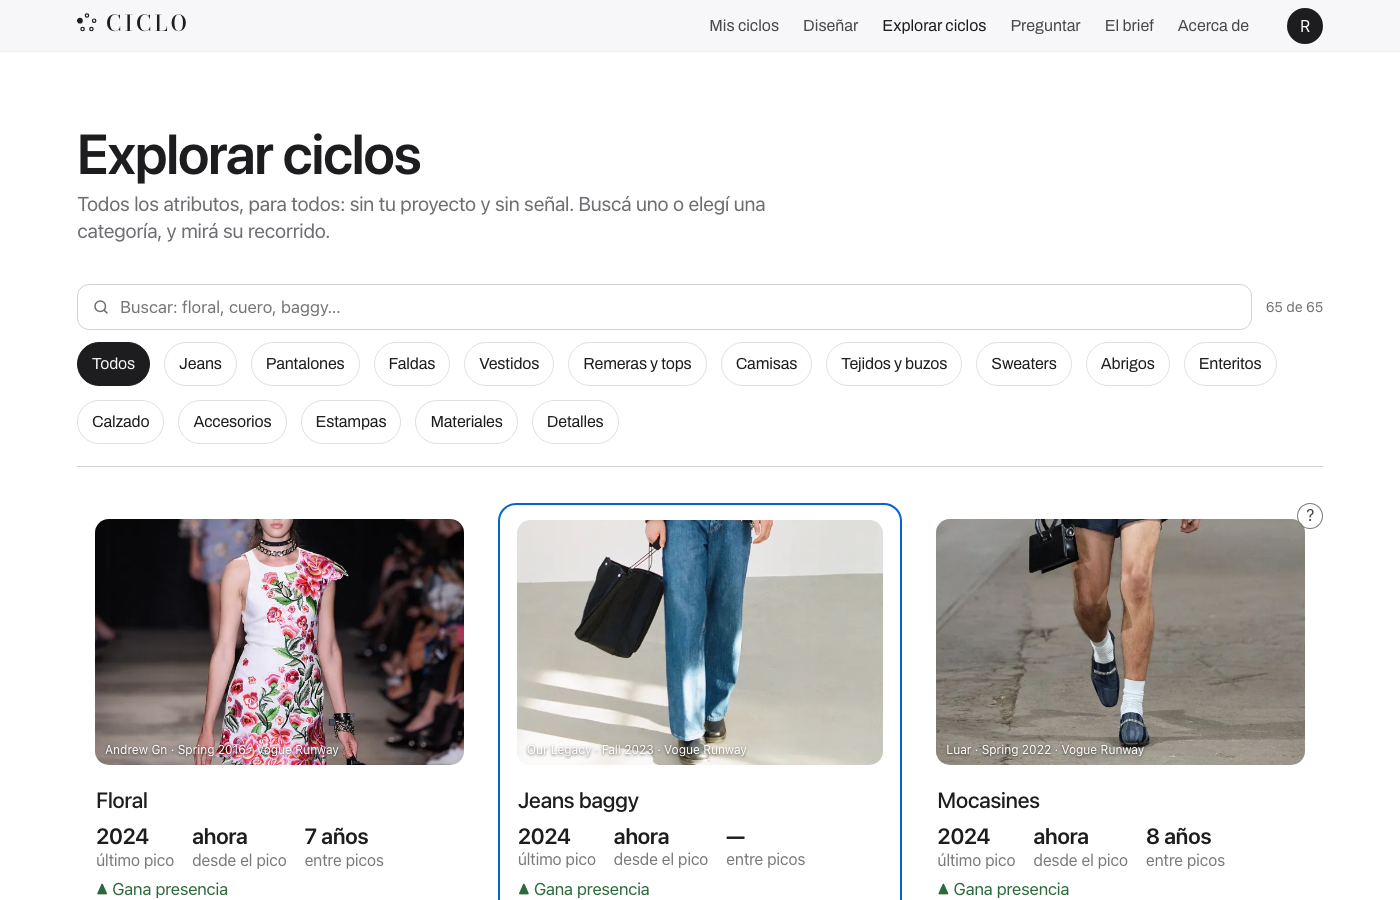
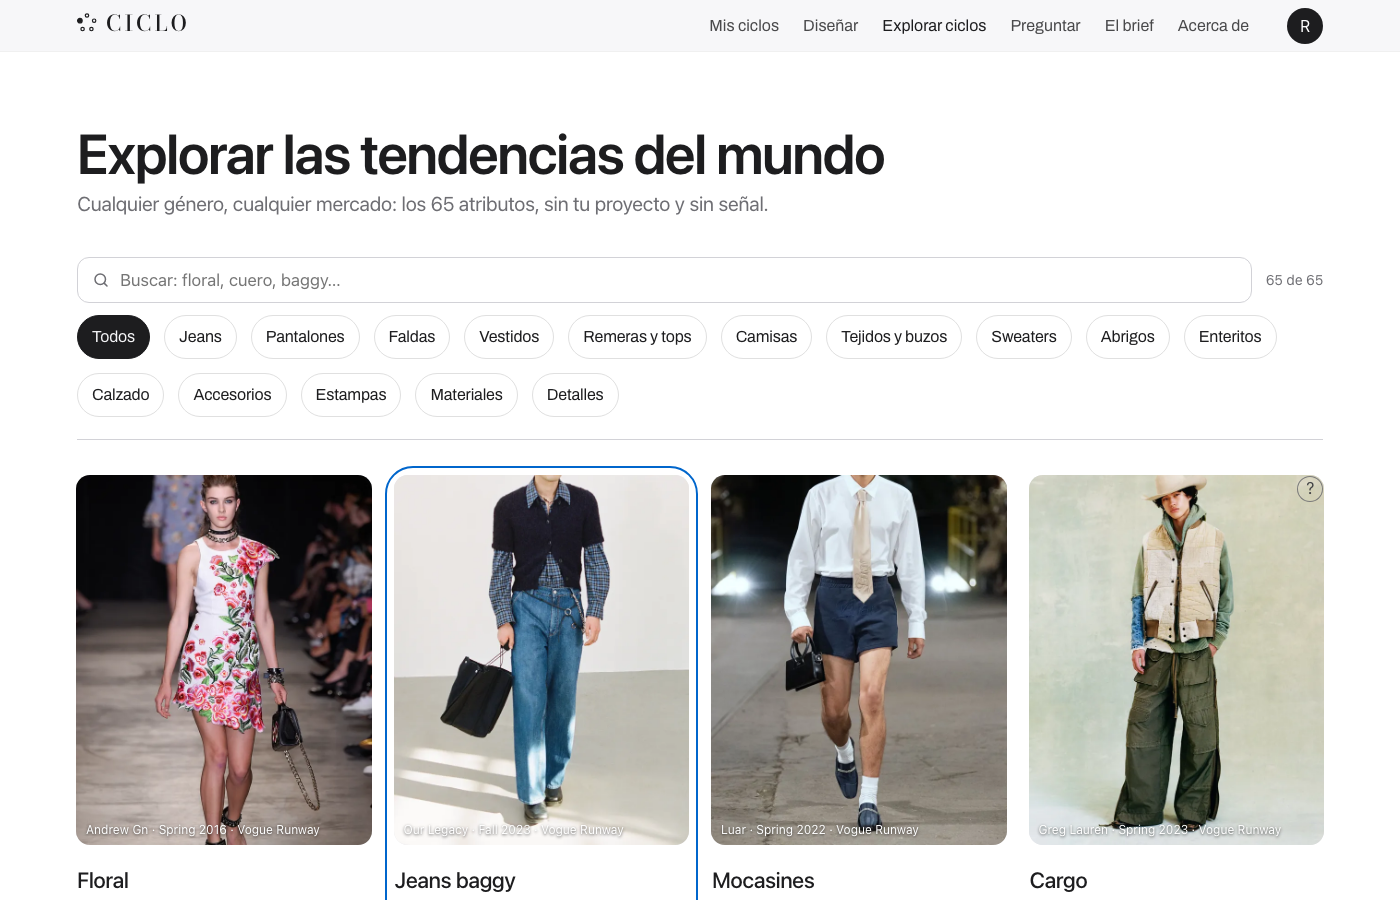
capturar_recorrido.js con las pantallas nuevas (17 pasos: el selector, «¿Lo viste venir?» jugado de verdad, la pieza de archivo, Tu archivo, sólo mirando); láminas de cinco títulos y de tres layouts para Mis ciclos, sin implementar

diff --git a/codigo/capturar_recorrido.js b/codigo/capturar_recorrido.js
@@ -1,4 +1,5 @@
-// CICLO · el recorrido paso a paso para el readme (03/11/2026; rehecho el 24/11/2026 para el home y los proyectos).
+// CICLO · el recorrido paso a paso para el readme (03/11/2026; rehecho el 24/11/2026 para el home y los proyectos;
+// al día con la vuelta N: el selector del recorrido, «¿Lo viste venir?», el premio, Tu archivo y el aviso sin proyecto).
 // Uso, desde la raíz del repo, con la app servida (cd app && python3 -m http.server 8000):
 //   node codigo/capturar_recorrido.js [http://localhost:8000/]
 // Requiere: npm install playwright. Escribe en entregas/entrega_4/recorrido/ (el de la Entrega 3 queda en entrega_3/).
@@ -49,9 +50,21 @@ const OUT = 'entregas/entrega_4/recorrido';
     await foto(p, `paso_07_disenar_con_el_atributo_fijo${suf}`);
     // Explorar: el buscador, las categorías y el recorrido de cualquier atributo
     await ir(p, 'recorridos'); await foto(p, `paso_08_explorar${suf}`);
-    await p.selectOption('#rsel', 'satenseda'); await hasta(p, '#v-recorridos .exrec'); await foto(p, `paso_09_explorar_recorrido${suf}`);
-    await ir(p, 'lectura'); await foto(p, `paso_10_preguntar${suf}`);
-    await ir(p, 'mover'); await foto(p, `paso_11_el_brief${suf}`);
+    // el título es el selector: abre un panel con buscador y las cuatro familias
+    await hasta(p, '#rtitulo'); await p.click('#rtbtn'); await p.fill('#rtq', 'sat'); await foto(p, `paso_09_explorar_selector${suf}`);
+    await p.click('#rtlista [data-r="satenseda"]'); await hasta(p, '#rtitulo'); await foto(p, `paso_10_explorar_recorrido${suf}`);
+    await ir(p, 'lectura'); await foto(p, `paso_11_preguntar${suf}`);
+    await ir(p, 'mover'); await foto(p, `paso_12_el_brief${suf}`);
+    // «¿Lo viste venir?»: se juega de verdad hasta acertar tres seguidas, que es lo que da una pieza de archivo
+    await p.click('#bfmodos [data-modo="viste"]'); await p.waitForTimeout(800); await foto(p, `paso_13_lo_viste_venir${suf}`);
+    let premio = false;
+    for (let i = 0; i < 300 && !premio; i++) {
+      await p.click('#mv [data-vv="bajo"]'); await p.waitForTimeout(300);
+      premio = !!(await p.$('#mv .bfpremio'));
+      if (!premio) await p.click('#vvotro');
+    }
+    await p.waitForTimeout(1800); await foto(p, `paso_14_pieza_de_archivo${suf}`);
+    if (premio) { await p.click('#mv [data-arch]'); await p.waitForTimeout(1200); await foto(p, `paso_15_tu_archivo${suf}`); }
     await p.context().close();
   }
   // la otra rama: por tu cuenta, donde la marca espera, vos explorás
@@ -59,7 +72,14 @@ const OUT = 'entregas/entrega_4/recorrido';
     const p = await abrir(1400, 900);
     await hasta(p, '#crear'); await crear(p, 'Por mi cuenta', 'High fashion');
     await p.click('#inform button[type=submit]'); await p.waitForSelector('#v-radar:not([hidden]) #mctend .mcf');
-    await hasta(p, '#mctend .mcgrcab h3.s-esperar'); await foto(p, 'paso_12_por_tu_cuenta_explorar');
+    await hasta(p, '#mctend .mcgrcab h3.s-esperar'); await foto(p, 'paso_16_por_tu_cuenta_explorar');
+    await p.context().close();
+  }
+  // y quien sólo mira: Explorar le recuerda que no tiene proyecto
+  for (const [ancho, alto, suf] of [[1400, 900, ''], [393, 852, '_celular']]) {
+    const p = await abrir(ancho, alto);
+    await hasta(p, '#crear'); await p.click('[data-mirar]'); await p.waitForSelector('#v-recorridos:not([hidden]) #exsinpy:not([hidden])');
+    await p.evaluate(() => window.scrollTo(0, 0)); await foto(p, `paso_17_solo_mirando${suf}`);
     await p.context().close();
   }
   await b.close();

diff --git a/app/index.html b/app/index.html
@@ -2474,7 +2474,7 @@ html body .app #v-mover .vvtx h2:not(#g1):not(#g2):not(#g3):not(#g4):not(#g5):no
 html body .app #v-mover .vvres.ok:not(#g1):not(#g2):not(#g3):not(#g4):not(#g5):not(#g6):not(#g7){color:var(--act-entrar)!important}
 html body .app #v-mover .vvres.mal:not(#g1):not(#g2):not(#g3):not(#g4):not(#g5):not(#g6):not(#g7){color:var(--act-salir)!important}
 html body .app #v-mover .vvops:not(#g1):not(#g2):not(#g3):not(#g4):not(#g5):not(#g6):not(#g7){display:flex;flex-wrap:wrap;gap:10px}
-html body .app #v-mover .vvops button:not(#g1):not(#g2):not(#g3):not(#g4):not(#g5):not(#g6):not(#g7){font:500 17px var(--sf);padding:12px 22px;border:1.5px solid var(--accion);border-radius:999px!important;background:#fff;color:var(--accion);cursor:pointer;min-width:120px}
+html body .app #v-mover .vvops button:not(#g1):not(#g2):not(#g3):not(#g4):not(#g5):not(#g6):not(#g7){flex:1 1 0;font:500 17px var(--sf);padding:12px 10px;border:1.5px solid var(--accion);border-radius:999px!important;background:#fff;color:var(--accion);cursor:pointer;min-width:0;max-width:160px}
 html body .app #v-mover .vvops button:hover:not(#g1):not(#g2):not(#g3):not(#g4):not(#g5):not(#g6):not(#g7){background:var(--accion);color:#fff}
 html body .app #v-mover .vvracha:not(#g1):not(#g2):not(#g3):not(#g4):not(#g5):not(#g6):not(#g7){font-size:16px;color:var(--tinta-2);margin:18px 0 0;text-align:left!important}
 html body .app #v-mover .vvdato:not(#g1):not(#g2):not(#g3):not(#g4):not(#g5):not(#g6):not(#g7){font-size:17px;margin:0 0 6px;text-align:left!important}
@@ -6224,7 +6224,7 @@ function vvCurva(){const v=GREL[vv.id],y0=2010,y1=2024,W=560,H=190,L=48,R=30,T=1
     ${[0,50,100].map(q=>`<text x="${L-8}" y="${Y(q)+4}" text-anchor="end" fill="var(--tinta-2)">${q}</text>`).join('')}
     <polyline class="vvlinea" pathLength="1" fill="none" stroke="${col}" stroke-width="3" stroke-linejoin="round" stroke-linecap="round" points="${pts.join(' ')}"/>
     <circle cx="${X(vv.f.y)}" cy="${Y(vv.a)}" r="6" fill="var(--tinta)"/><circle class="vvfin" cx="${X(vv.f.y+3)}" cy="${Y(vv.b)}" r="6" fill="${col}"/>
-    ${[y0,vv.f.y,vv.f.y+3,y1].filter((y,i,a)=>a.indexOf(y)===i).map(y=>`<text x="${X(y)}" y="${H-6}" text-anchor="middle" fill="var(--tinta-2)">${y}</text>`).join('')}</svg>`;}
+    ${[y0,vv.f.y,vv.f.y+3,y1].filter((y,i,a)=>a.indexOf(y)===i&&!(i===3&&y-vv.f.y-3<3)&&!(i===0&&vv.f.y-y<3)).map(y=>`<text x="${X(y)}" y="${H-6}" text-anchor="middle" fill="var(--tinta-2)">${y}</text>`).join('')}</svg>`;}
 function pintarViste(C){if(!vv)vvNuevo();const o=REC.find(x=>x.id===vv.id),nom=o.n.split(' /')[0],fo=vv.f,R=vvLeer();
   const OP=[['subio','Subió'],['quedo','Se quedó'],['bajo','Bajó']];
   const foto=`<figure class="vvfoto"><img src="${vogueFoto(fo.f,800)}"${fotoPos(vv.id)} alt="${nom} en la pasarela: ${fotoCred(fo)}"><figcaption class="pcred">${fotoCred(fo)}</figcaption></figure>`;

diff --git a/readme.md b/readme.md
@@ -54,17 +54,19 @@ Hasta el 24/11 la app abría con tres preguntas en pasos. Después de la devoluc
 explica qué es antes de pedir nada, y las tres preguntas pasaron a «Creá tu proyecto», al final, en una sola pantalla.
 Está contado en `decisiones.md` y en `entregas/entrega_4/plan_rediseno.md`.
 
-**1 · El home.** Qué es, para quién y qué te da; abajo, «Bajá para ver cómo funciona».
+**1 · El home.** Qué diseñar y cuándo, en una línea; abajo, «Bajá para ver cómo funciona».
 
 ![Paso 1: el home](entregas/entrega_4/recorrido/paso_01_home.png)
 
 **2 · Una idea por pantalla**, con una foto de pasarela que cambia al bajar: cómo funciona, de dónde salen los datos (con
-país y período) y qué obtenés.
+país y período) y qué señal obtenés.
 
 ![Paso 2: cómo funciona](entregas/entrega_4/recorrido/paso_02_como_funciona.png)
 
 **3 · Creá tu proyecto.** Nombre, email, para quién diseñás, para una marca o por tu cuenta, y el tipo de marca. Se guarda
-en el navegador. «Sólo estoy mirando» va a Explorar ciclos sin proyecto.
+en el navegador. «Sólo estoy mirando» va a Explorar sin proyecto, y la pantalla lo recuerda:
+
+![Sólo mirando: Explorar sin proyecto](entregas/entrega_4/recorrido/paso_17_solo_mirando.png)
 
 ![Paso 3: crear tu proyecto](entregas/entrega_4/recorrido/paso_03_crear_tu_proyecto.png)
 
@@ -74,21 +76,22 @@ En el celular:
 
 ### El uso
 
-**4 · Mis ciclos, arriba: qué gana y qué pierde terreno.** La búsqueda mundial 2022→2024, con la línea que explica qué es
-«+50» y, debajo de cada gráfico, la señal de cada atributo para tu proyecto.
+**4 · Mis ciclos, arriba: qué gana y qué pierde terreno.** La búsqueda mundial 2022→2024, los dos gráficos lado a lado y
+una línea con la fuente (el detalle, en la ⓘ).
 
 ![Paso 4: Mis ciclos](entregas/entrega_4/recorrido/paso_04_mis_ciclos.png)
 
-**5 · Mis tendencias.** Los 65 atributos agrupados por su señal (Entrar, Esperar, Salir), con el Reddit de tu público.
+**5 · Mis tendencias.** Los 65 atributos agrupados por su señal (Entrar, Esperar, Salir), dos filas por grupo y «Ver los
+n», con el Reddit de tu público. Abajo, el próximo encargo de El brief.
 
 ![Paso 5: Mis tendencias](entregas/entrega_4/recorrido/paso_05_mis_tendencias.png)
 
 Por tu cuenta, donde una marca vería Esperar aparece Explorar:
 
-![Por tu cuenta: Explorar](entregas/entrega_4/recorrido/paso_12_por_tu_cuenta_explorar.png)
+![Por tu cuenta: Explorar](entregas/entrega_4/recorrido/paso_16_por_tu_cuenta_explorar.png)
 
-**6 · Un atributo abre su ficha**, sólo con lo de tu proyecto: su señal, tu ventana y el Reddit de tu público. Debajo del
-gráfico, «Cómo se lee · CICLO no predice».
+**6 · Un atributo abre su ficha**, sólo con lo de tu proyecto: primero su señal y el porqué, después «Diseñar con…»; tu
+ventana y el Reddit de tu público. Debajo del gráfico, «Cómo se lee · CICLO no predice».
 
 ![Paso 6: la ficha del atributo](entregas/entrega_4/recorrido/paso_06_ficha_del_atributo.png)
 
@@ -96,21 +99,38 @@ gráfico, «Cómo se lee · CICLO no predice».
 
 ![Paso 7: Diseñar con el atributo fijo](entregas/entrega_4/recorrido/paso_07_disenar_con_el_atributo_fijo.png)
 
-**8 · Explorar ciclos**: lo mismo para todos, sin proyecto y sin señal. Arriba, el buscador y las categorías.
+**8 · Explorar las tendencias del mundo**: lo mismo para todos, sin proyecto y sin señal. Arriba, el buscador y las
+categorías; después, seis filas de tarjetas.
 
 ![Paso 8: Explorar ciclos](entregas/entrega_4/recorrido/paso_08_explorar.png)
 
-**9 · El recorrido de cualquier atributo**, con un selector de los 65.
+**9 · El recorrido de cualquier atributo.** El nombre en el título es el selector: abre un panel con buscador y las cuatro
+familias.
 
-![Paso 9: el recorrido de satén](entregas/entrega_4/recorrido/paso_09_explorar_recorrido.png)
+![Paso 9: el selector del recorrido](entregas/entrega_4/recorrido/paso_09_explorar_selector.png)
 
-**10 · Preguntale a CICLO** («Preguntar» en el menú). Le preguntás por un atributo, una marca o un diseño tuyo, en un solo hilo. Una imagen, soltada en cualquier parte de la app, se vuelve tu mensaje; la respuesta trae adentro lo que leyó CLIP (chips que se corrigen, con su señal), la curva que importa, los looks de pasarela parecidos y la devolución. Desde el 24/11 la respuesta escrita anda sin pegar una clave (una función de Netlify llama a Groq); si el modelo no está, contestan las reglas, y lo dice.
+![Paso 10: el recorrido de satén](entregas/entrega_4/recorrido/paso_10_explorar_recorrido.png)
 
-![Paso 10: Preguntale a CICLO](entregas/entrega_4/recorrido/paso_10_preguntar.png)
+**11 · Preguntale a CICLO** («Preguntar» en el menú). Le preguntás por un atributo, una marca o un diseño tuyo, en un solo hilo. Una imagen, soltada en cualquier parte de la app, se vuelve tu mensaje; la respuesta trae adentro lo que leyó CLIP (chips que se corrigen, con su señal), la curva que importa, los looks de pasarela parecidos y la devolución. Desde el 24/11 la respuesta escrita anda sin pegar una clave (una función de Netlify llama a Groq); si el modelo no está, contestan las reglas, y lo dice.
 
-**11 · El brief.**
+![Paso 11: Preguntale a CICLO](entregas/entrega_4/recorrido/paso_11_preguntar.png)
 
-![Paso 11: El brief](entregas/entrega_4/recorrido/paso_11_el_brief.png)
+**12 · El brief.** Un encargo de una casa real, tres toques y un veredicto.
+
+![Paso 12: El brief](entregas/entrega_4/recorrido/paso_12_el_brief.png)
+
+**13 · ¿Lo viste venir?** Un look de archivo (2012–2021) y un atributo: ¿la búsqueda subió, se quedó o bajó los tres años
+siguientes? Después, la curva medida.
+
+![Paso 13: ¿Lo viste venir?](entregas/entrega_4/recorrido/paso_13_lo_viste_venir.png)
+
+**14 · Una pieza de archivo.** Clavar un brief o acertar tres seguidas desbloquea un look icónico del corpus…
+
+![Paso 14: una pieza de archivo](entregas/entrega_4/recorrido/paso_14_pieza_de_archivo.png)
+
+**15 · …que se guarda en Tu archivo**, en Mi cuenta.
+
+![Paso 15: Tu archivo](entregas/entrega_4/recorrido/paso_15_tu_archivo.png)
 
 En el celular:
 

diff --git a/decisiones.md b/decisiones.md
@@ -4276,3 +4276,79 @@ todas con foto. En Mis ciclos, dos filas cerradas por grupo (8 y 4).
 
 La lista completa tiene 65 atributos, así que su última fila no puede cerrar con 4 columnas: ahí quedan neoprene y
 espiga, que no tienen foto. Capturas `O/2_filas/`. `probar_demo.js` 8 de 8.
+
+## 2026-11-24 · Vuelta O: el recorrido para el readme, al día
+
+Pedido: «actualizá capturar_recorrido.js con las pantallas nuevas».
+
+`codigo/capturar_recorrido.js` pasa de 12 a 17 pasos, todos con clicks de verdad. Los nuevos:
+- el selector del recorrido abierto, con el buscador;
+- «¿Lo viste venir?»;
+- la pieza de archivo;
+- Tu archivo;
+- Explorar después de «Sólo estoy mirando».
+
+«¿Lo viste venir?» se juega de verdad, contestando siempre «Bajó», hasta acertar tres seguidas (hasta 300 jugadas): el
+premio de la captura no está simulado. En el celular, a la primera corrida no llegó en 60 jugadas, y por eso el tope
+subió a 300.
+
+De paso:
+- En la curva de «¿Lo viste venir?», «2023» y «2024» se pisaban: ahora no se dibuja un año a menos de tres de otro.
+- En el celular los tres botones (Subió, Se quedó, Bajó) van en una sola fila.
+
+El readme muestra los pasos nuevos, y `CLAUDE.md` y `codigo/readme.md` describen el script. Son 33 capturas en
+`entregas/entrega_4/recorrido/`. `probar_demo.js` 8 de 8.
+
+## 2026-11-24 · Vuelta O, punto 1: cinco títulos más para el home (sin cambiar)
+
+Pedido: «"Qué corte, qué estampa, qué color, y cuándo" va por buen camino pero no termina de convencer. Probá otras 5 en
+esa misma línea (qué diseñar + cuándo), más cortas y con más fuerza. Renderizalas sobre la primera foto… No cambies el
+título hasta que elija».
+
+Las cinco, renderizadas sobre la foto verde en `O/1_titulos/lamina_titulos_1400.png` y `_393.png`. El título de la app
+no cambió.
+1. «Qué diseñar. Y cuándo.» Es la idea pelada, en cuatro palabras, y entra en dos líneas.
+2. «El qué y el cuándo de la moda.»
+3. «Lo que diseñás, en su momento.»
+4. «Qué entra, qué sale y cuándo.»
+5. «Diseñá a tiempo.»
+
+Recomendación: la 1. Dice las dos cosas que hace CICLO sin adornos, y el punto antes de «Y cuándo» le da el remate que
+tenía la actual con la mitad de largo. La 5 es la más fuerte, pero deja afuera el «qué».
+
+## 2026-11-24 · Vuelta O, punto 3: tres layouts para Mis ciclos (sin implementar)
+
+Pedido: «tiene que mostrar a la vez la info de mi proyecto… y mis tendencias, ordenado y lindo… 3 propuestas
+renderizadas a 1400 y 393 px, con la grilla… En cada una incluí o no el "Cuándo picó cada uno" como línea de tiempo por
+año… y decime si de verdad suma o es ruido».
+
+Las tres se armaron sobre la app real, con los datos de un proyecto Mujer · Para una marca · Fast fashion y la grilla
+superpuesta (`O/3_misciclos/A_*`, `B_*`, `C_*` y la lámina `lamina_misciclos.png`).
+
+**A · Columna lateral.** Los dos gráficos, uno debajo del otro, en las columnas 10–12 y fijos al bajar; Mis tendencias,
+de a 3 tarjetas, en las columnas 1–9.
+- A favor: las tarjetas aparecen enseguida y los gráficos siguen a la vista.
+- En contra: a 293 px los gráficos se aprietan (los años se pisan); en el celular quedan como una tira que se desliza
+  de costado.
+
+**B · Apilados, a todo el ancho, compactos.** Gana y Pierde uno debajo del otro, a 1.246 px y 110 de alto, y debajo la
+línea de tiempo «Cuándo picó cada uno»: un punto por atributo en el año de su máximo, del color de su señal.
+- A favor: los gráficos se leen mejor que en ningún otro layout.
+- En contra: las tarjetas bajan unos 400 px respecto de C.
+
+**C · Sin gráficos grandes.** Una línea, «29 ganan terreno, 32 lo pierden · búsqueda mundial 2022→2024 · Ver el
+gráfico», que despliega los dos gráficos. En cada tarjeta, una mini barra de −50 a +50 con su número, en lugar de la fila
+«Búsqueda 2022→2024».
+- A favor: es lo más limpio, y el dato de cada atributo vive en su tarjeta.
+- En contra: la foto de conjunto (qué se mueve más) queda detrás de un click.
+
+**«Cuándo picó cada uno»: es ruido en Mis ciclos.** En la propuesta B se ve por qué:
+- unos veinte de los 65 atributos tienen su máximo en 2010, que es el primer año de la serie corregida, así que la
+  columna más alta es un efecto del arranque de la serie y no un dato de moda;
+- el año del pico ya está adentro de la señal de cada tarjeta;
+- no ayuda a decidir qué diseñar ahora.
+
+Sumaría en la ficha de un atributo o en Explorar, donde se mira la historia.
+
+**Recomendación: C**, con el desplegable abierto por defecto la primera vez. Es la que mejor resuelve «mi proyecto + mis
+tendencias», con la grilla de 4 intacta y sin gráficos apretados.

diff --git a/CLAUDE.md b/CLAUDE.md
@@ -208,7 +208,7 @@ directory that don't match the repo layout, so adjust before running (`taxonomia
 - `probar_demo.js` (repo root, app served): the class demo, 8 steps; since 24/11 step 1 taps «Bajá para ver cómo funciona» and creates a project at the end of the home
 - `capturar_pantallas_de_la_app.js` (run from the repo root, app served) → the 19 screenshots (01–17, 19 and 20, El brief) in
   `entregas/entrega_4/capturas/` used by the readme (the 03/11 set stays in `entregas/entrega_3/capturas/`). It never shows an LLM answer (no simulated responses)
-- `capturar_recorrido.js` (same way) → the step-by-step walkthrough in `entregas/entrega_4/recorrido/` that the readme shows (since 24/11: home → crear tu proyecto → Mis ciclos → ficha → Diseñar → Explorar → Preguntar → El brief, desktop and phone, plus the «por mi cuenta» branch; it deletes the old PNGs first)
+- `capturar_recorrido.js` (same way) → the step-by-step walkthrough in `entregas/entrega_4/recorrido/` that the readme shows (since vuelta N, 17 steps: home → crear tu proyecto → Mis ciclos → ficha → Diseñar → Explorar, its selector and recorrido → Preguntar → El brief → «¿Lo viste venir?», played until three right answers in a row → the archive piece → Tu archivo, desktop and phone, plus the «por mi cuenta» branch and «Sólo estoy mirando»; it deletes the old PNGs first)
 - `exportar_racional_pdf.js` (from the repo root) → `entregas/entrega_4/racional.pdf` from `racional.md`; rerun it after editing the racional. Needs `marked` besides Playwright
 
 Requires `npm install playwright` / `pip install pillow`.

diff --git a/codigo/readme.md b/codigo/readme.md
@@ -9,7 +9,7 @@ Scripts de extracción, cálculo y render. Ninguno es parte del sitio: el sitio 
 | `generar_laminas_entrega_2.py` | Genera las 20 láminas de la presentación como SVG de 1920×1080 |
 | `renderizar_laminas_a_png.js` | Pasa los SVG a PNG con Playwright |
 | `capturar_pantallas_de_la_app.js` | Abre la app y guarda una captura de cada vista |
-| `capturar_recorrido.js` | El recorrido paso a paso, con clicks de verdad (desde el 24/11: home → crear tu proyecto → Mis ciclos → ficha → Diseñar → Explorar → Preguntar → El brief, en la compu y en el celular) → `entregas/entrega_4/recorrido/` |
+| `capturar_recorrido.js` | El recorrido paso a paso, con clicks de verdad (desde la vuelta N, 17 pasos: home → crear tu proyecto → Mis ciclos → ficha → Diseñar → Explorar, su selector y el recorrido → Preguntar → El brief → «¿Lo viste venir?», jugado de verdad hasta acertar tres seguidas → la pieza de archivo → Tu archivo, más «por mi cuenta» y «Sólo estoy mirando», en la compu y en el celular) → `entregas/entrega_4/recorrido/` |
 | `probar_demo.js` | Los siete pasos de la demo de la Entrega 3, con clicks de verdad; con `GROQ_KEY` hace la pregunta a Groq, sin clave prueba el plan B |
 | `capturar_presentacion.js` + `armar_capturas_presentacion.py` | La captura de Tendencias que usa la presentación → `entregas/entrega_3/presentacion/capturas/tendencias.webp` |
 | `bajar_titulos_reddit.py` | Baja los títulos de r/femalefashionadvice de un año vía Arctic Shift |
